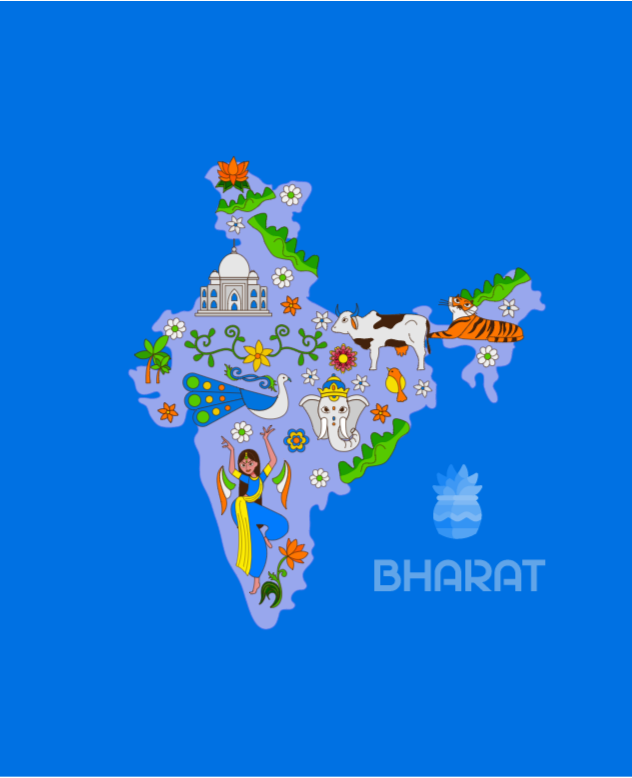
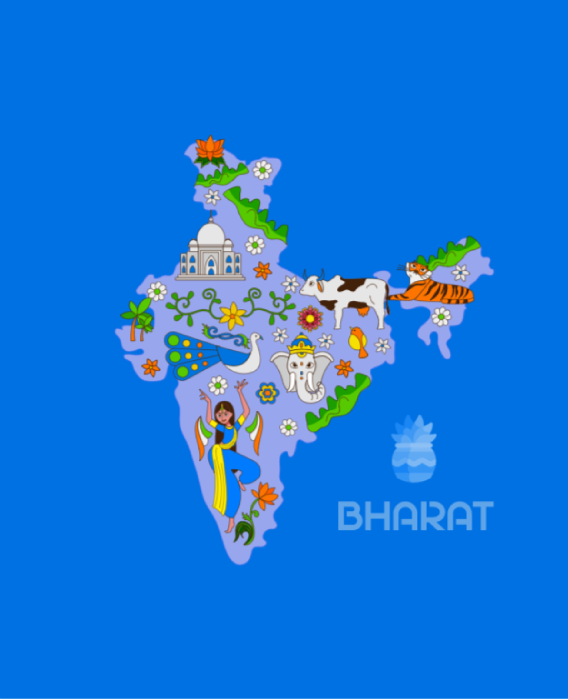
design change

Changed region(s): [[0.2095, 0.18, 0.868, 0.81], [0.5687, 0.6, 0.868, 0.78]]

diff --git a/client/src/pages/LoginPage.jsx b/client/src/pages/LoginPage.jsx
@@ -1,5 +1,5 @@
 import React, { useState } from "react";
-import { Link , useNavigate} from 'react-router-dom';
+import { Link, useNavigate } from 'react-router-dom';
 import axios from 'axios';
 
 const LoginPage = () => {
@@ -21,15 +21,15 @@ const LoginPage = () => {
 
     if (!emailError) {
       axios
-      .post('http://localhost:5000/api/validate-email ',{email:email})
-      .then((data)=>{
+      .post('http://localhost:5000/api/validate-email', {email: email})
+      .then((data) => {
         console.log(data.status);
-        if(data.data.message=='Email exists'){
-          setPasswordShow(true)
+        if (data.data.message == 'Email exists') {
+          setPasswordShow(true);
         }
       })
-      .catch((error)=>{
-        if(error.status==404){
+      .catch((error) => {
+        if (error.status == 404) {
           setErrors('No email found');
         }
       })
@@ -38,13 +38,13 @@ const LoginPage = () => {
   };
 
   return (
-    <div className="flex h-screen">
-      <div className="md:w-1/2 bg-blue-500 flex flex-col justify-center items-center hidden md:flex">
+    <div className="flex min-h-screen">
+      <div className="md:w-1/2 banner-bg flex flex-col justify-center items-center hidden md:flex">
         <img
           src="../images/barath.png"
           alt="Map of Bharat"
-          className="max-w-full h-auto w-100"
-        />        
+          className="max-w-full h-auto banner-image"
+        />
       </div>
 
       <div className="w-full md:w-1/2 flex justify-center items-center bg-gray-100">
@@ -85,7 +85,7 @@ const LoginPage = () => {
             {passwordShow && (
             <div className="mb-4">
               <label
-                htmlFor="email"
+                htmlFor="password"
                 className="block text-xs font-semibold text-gray-500 mb-2"
               >
                 ENTER PASSWORD
@@ -109,7 +109,7 @@ const LoginPage = () => {
                 </small>
               )}
             </div>
-          )}
+            )}
             <button
               type="submit"
               className="login-button w-full bg-blue-500 text-white py-2 rounded-md font-medium hover:bg-blue-600 transition"
@@ -118,8 +118,8 @@ const LoginPage = () => {
             </button>
           </form>
           <div className="text-center mt-4">
-          <Link to="/forgot-email" className="text-black text-sm font-medium">
-          Forgot your email ID?
+            <Link to="/forgot-email" className="text-black text-sm font-medium">
+              Forgot your email ID?
             </Link>
           </div>
         </div>

diff --git a/client/src/pages/AccountRecoveryPage.jsx b/client/src/pages/AccountRecoveryPage.jsx
@@ -31,11 +31,11 @@ const LoginPage = () => {
 
   return (
     <div className="flex h-screen">
-      <div className="md:w-1/2 bg-blue-500 flex flex-col justify-center items-center hidden md:flex">
+      <div className="md:w-1/2 banner-bg flex flex-col justify-center items-center hidden md:flex">
         <img
           src="../images/barath.png"
           alt="Map of Bharat"
-          className="max-w-full h-auto w-100"
+          className="max-w-full h-auto banner-image"
         />        
       </div>
 

diff --git a/client/src/styles/global.css b/client/src/styles/global.css
@@ -26,3 +26,12 @@ body {
   .login-button{
     background-color: #0071e3;
   }
+
+  .banner-image{
+    width: 82% !important;
+    object-fit: cover;
+  }
+
+  .banner-bg{
+    background-color:#0071e3 ;
+  }
